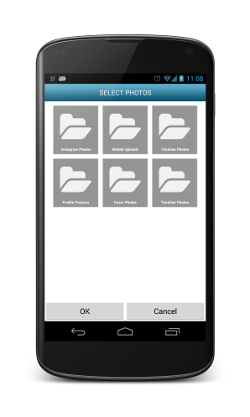
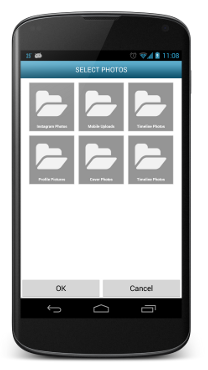
enable unsupported service login, resize screenshots

diff --git a/ChutePhotoPicker+/src/com/chute/android/photopickerplus/config/PhotoPicker.java b/ChutePhotoPicker+/src/com/chute/android/photopickerplus/config/PhotoPicker.java
@@ -99,7 +99,7 @@ public class PhotoPicker {
 
   public void setAvailableRemoteServices(List<AccountType> remoteServices) {
     this.remoteServices = remoteServices;
-    checkIfServiceIsSupported(remoteServices);
+//    checkIfServiceIsSupported(remoteServices);
   }
 
   public void setAvailableLocalServices(List<LocalMediaType> localServices) {
@@ -156,18 +156,18 @@ public class PhotoPicker {
     }
   }
 
-  private void checkIfServiceIsSupported(List<AccountType> remoteServices) {
-    Iterator<AccountType> iterator = remoteServices.iterator();
-    while (iterator.hasNext()) {
-      AccountType accountType = iterator.next();
-      if (accountType.equals(AccountType.CHUTE)
-          || accountType.equals(AccountType.FOURSQUARE)
-          || accountType.equals(AccountType.TWITTER)) {
-        ALog.w(WARNING_UNSUPPORTED_SERVICES);
-        iterator.remove();
-      }
-    }
-  }
+//  private void checkIfServiceIsSupported(List<AccountType> remoteServices) {
+//    Iterator<AccountType> iterator = remoteServices.iterator();
+//    while (iterator.hasNext()) {
+//      AccountType accountType = iterator.next();
+//      if (accountType.equals(AccountType.CHUTE)
+//          || accountType.equals(AccountType.FOURSQUARE)
+//          || accountType.equals(AccountType.TWITTER)) {
+//        ALog.w(WARNING_UNSUPPORTED_SERVICES);
+//        iterator.remove();
+//      }
+//    }
+//  }
 
   public void destroy() {
     if (configuration != null)

diff --git a/PhotoPickerPlusTutorial/src/com/chute/android/photopickerplustutorial/PhotoPickerPlusTutorialApp.java b/PhotoPickerPlusTutorial/src/com/chute/android/photopickerplustutorial/PhotoPickerPlusTutorialApp.java
@@ -27,19 +27,21 @@ public class PhotoPickerPlusTutorialApp extends PhotoPickerPlusApp {
     super.onCreate();
     ALog.setDebugTag("PhotoPicker");
     ALog.setDebugLevel(DebugLevel.ALL);
+    final String APP_ID = "4f3c39ff38ecef0c89000003";
[1 lines of base64/hex data omitted]
     /**
      * Fill in using "app_id" and "app_secret" values from your Chute
      * application. 
      * See <a href="https://apps.getchute.com">https://apps.getchute.com</a>
      */
-    Chute.init(this, new AuthConstants("app_id", "app_secret"));
+    Chute.init(this, new AuthConstants(APP_ID, APP_SECRET));
 
     PhotoPickerConfiguration config = new PhotoPickerConfiguration.Builder(
         getApplicationContext())
         .isMultiPicker(true)
-        .accountList(AccountType.FACEBOOK, AccountType.INSTAGRAM)
+        .accountList(AccountType.FLICKR, AccountType.TWITTER, AccountType.FACEBOOK)
         .localMediaList(LocalMediaType.ALL_PHOTOS, LocalMediaType.CAMERA_PHOTOS)
-        .configUrl(ConfigEndpointURLs.SERVICES_CONFIG_URL)
+//        .configUrl(ConfigEndpointURLs.SERVICES_CONFIG_URL)
         .build();
     PhotoPicker.getInstance().init(config);
 

diff --git a/ChutePhotoPicker+/src/com/chute/android/photopickerplus/ui/adapter/ServicesAdapter.java b/ChutePhotoPicker+/src/com/chute/android/photopickerplus/ui/adapter/ServicesAdapter.java
@@ -261,6 +261,12 @@ public class ServicesAdapter extends BaseAdapter {
           R.drawable.dropbox));
       break;
     default:
+      holder.imageView.setBackgroundDrawable(context.getResources().getDrawable(
+          R.drawable.album_default));
+      holder.textViewServiceTitle.setVisibility(View.VISIBLE);
+      String loginMethod = type.getLoginMethod();
+      String accountTypeName = loginMethod.substring(0,1).toUpperCase() + loginMethod.substring(1);
+      holder.textViewServiceTitle.setText(accountTypeName);
       break;
     }
   }

diff --git a/ChutePhotoPicker+/src/com/chute/android/photopickerplus/ui/fragment/FragmentServices.java b/ChutePhotoPicker+/src/com/chute/android/photopickerplus/ui/fragment/FragmentServices.java
@@ -5,7 +5,6 @@ import java.util.List;
 import android.app.Activity;
 import android.os.Bundle;
 import android.support.v4.app.Fragment;
-import android.util.Log;
 import android.view.LayoutInflater;
 import android.view.View;
 import android.view.ViewGroup;
